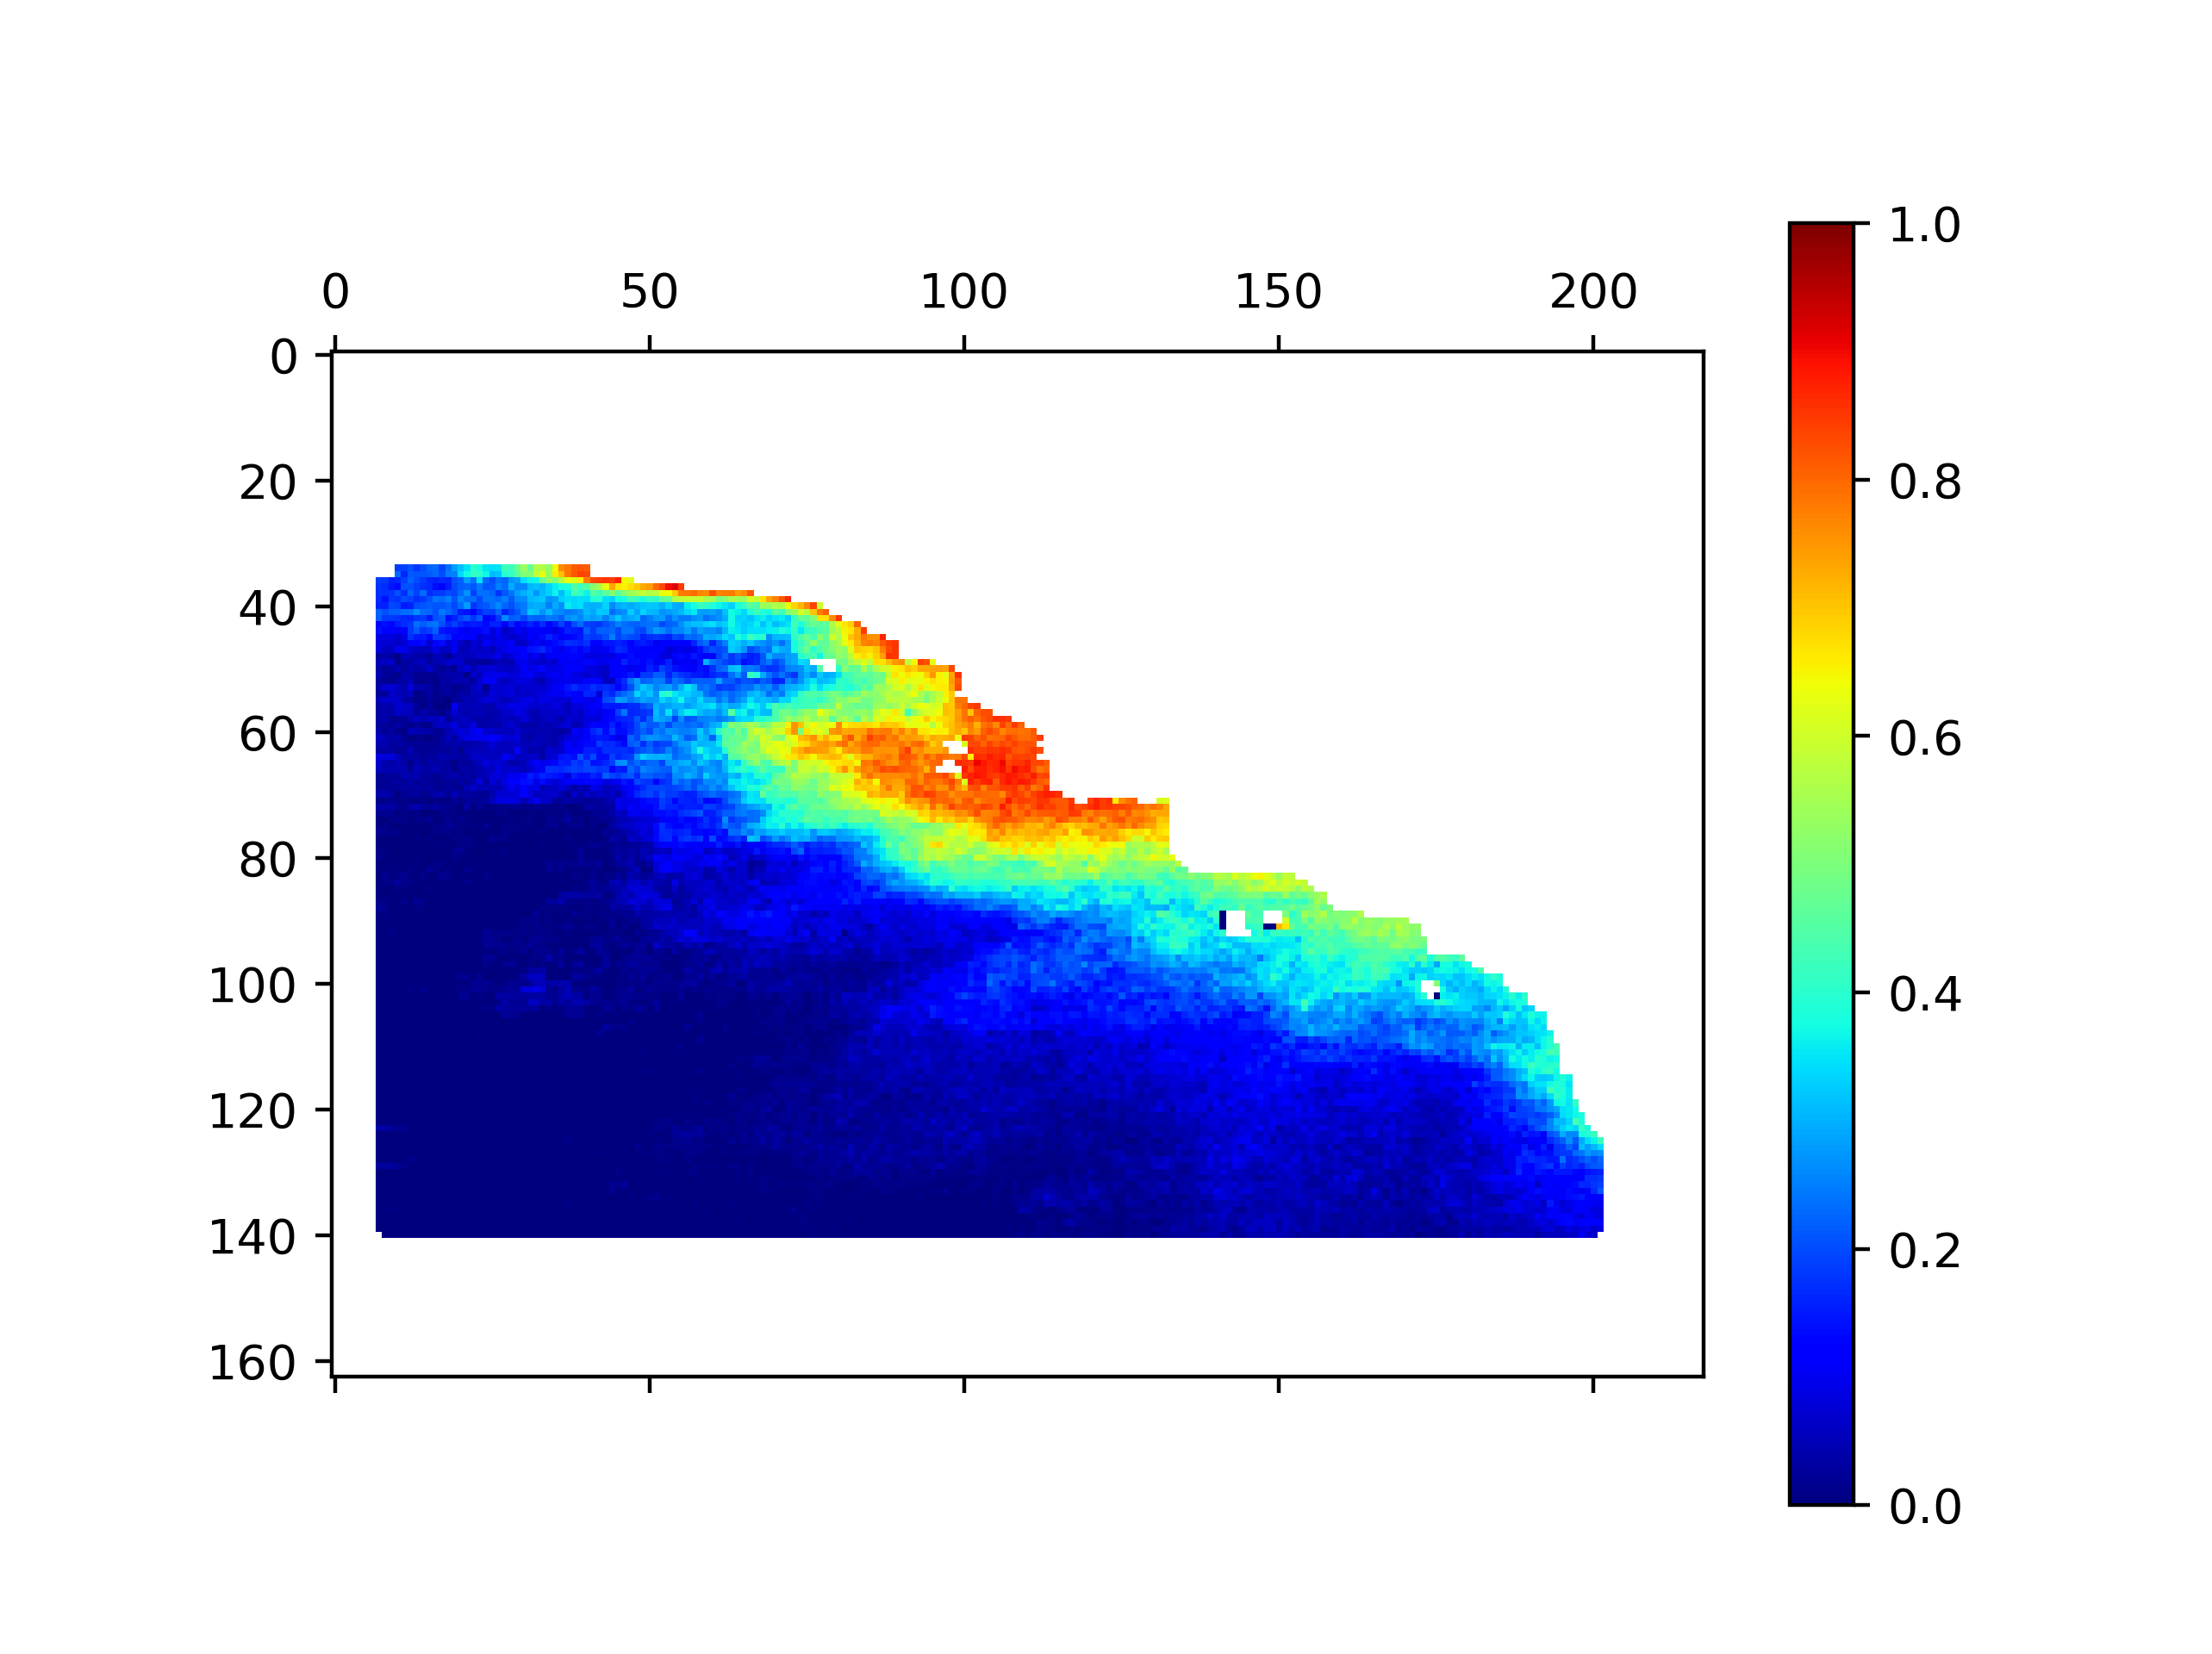
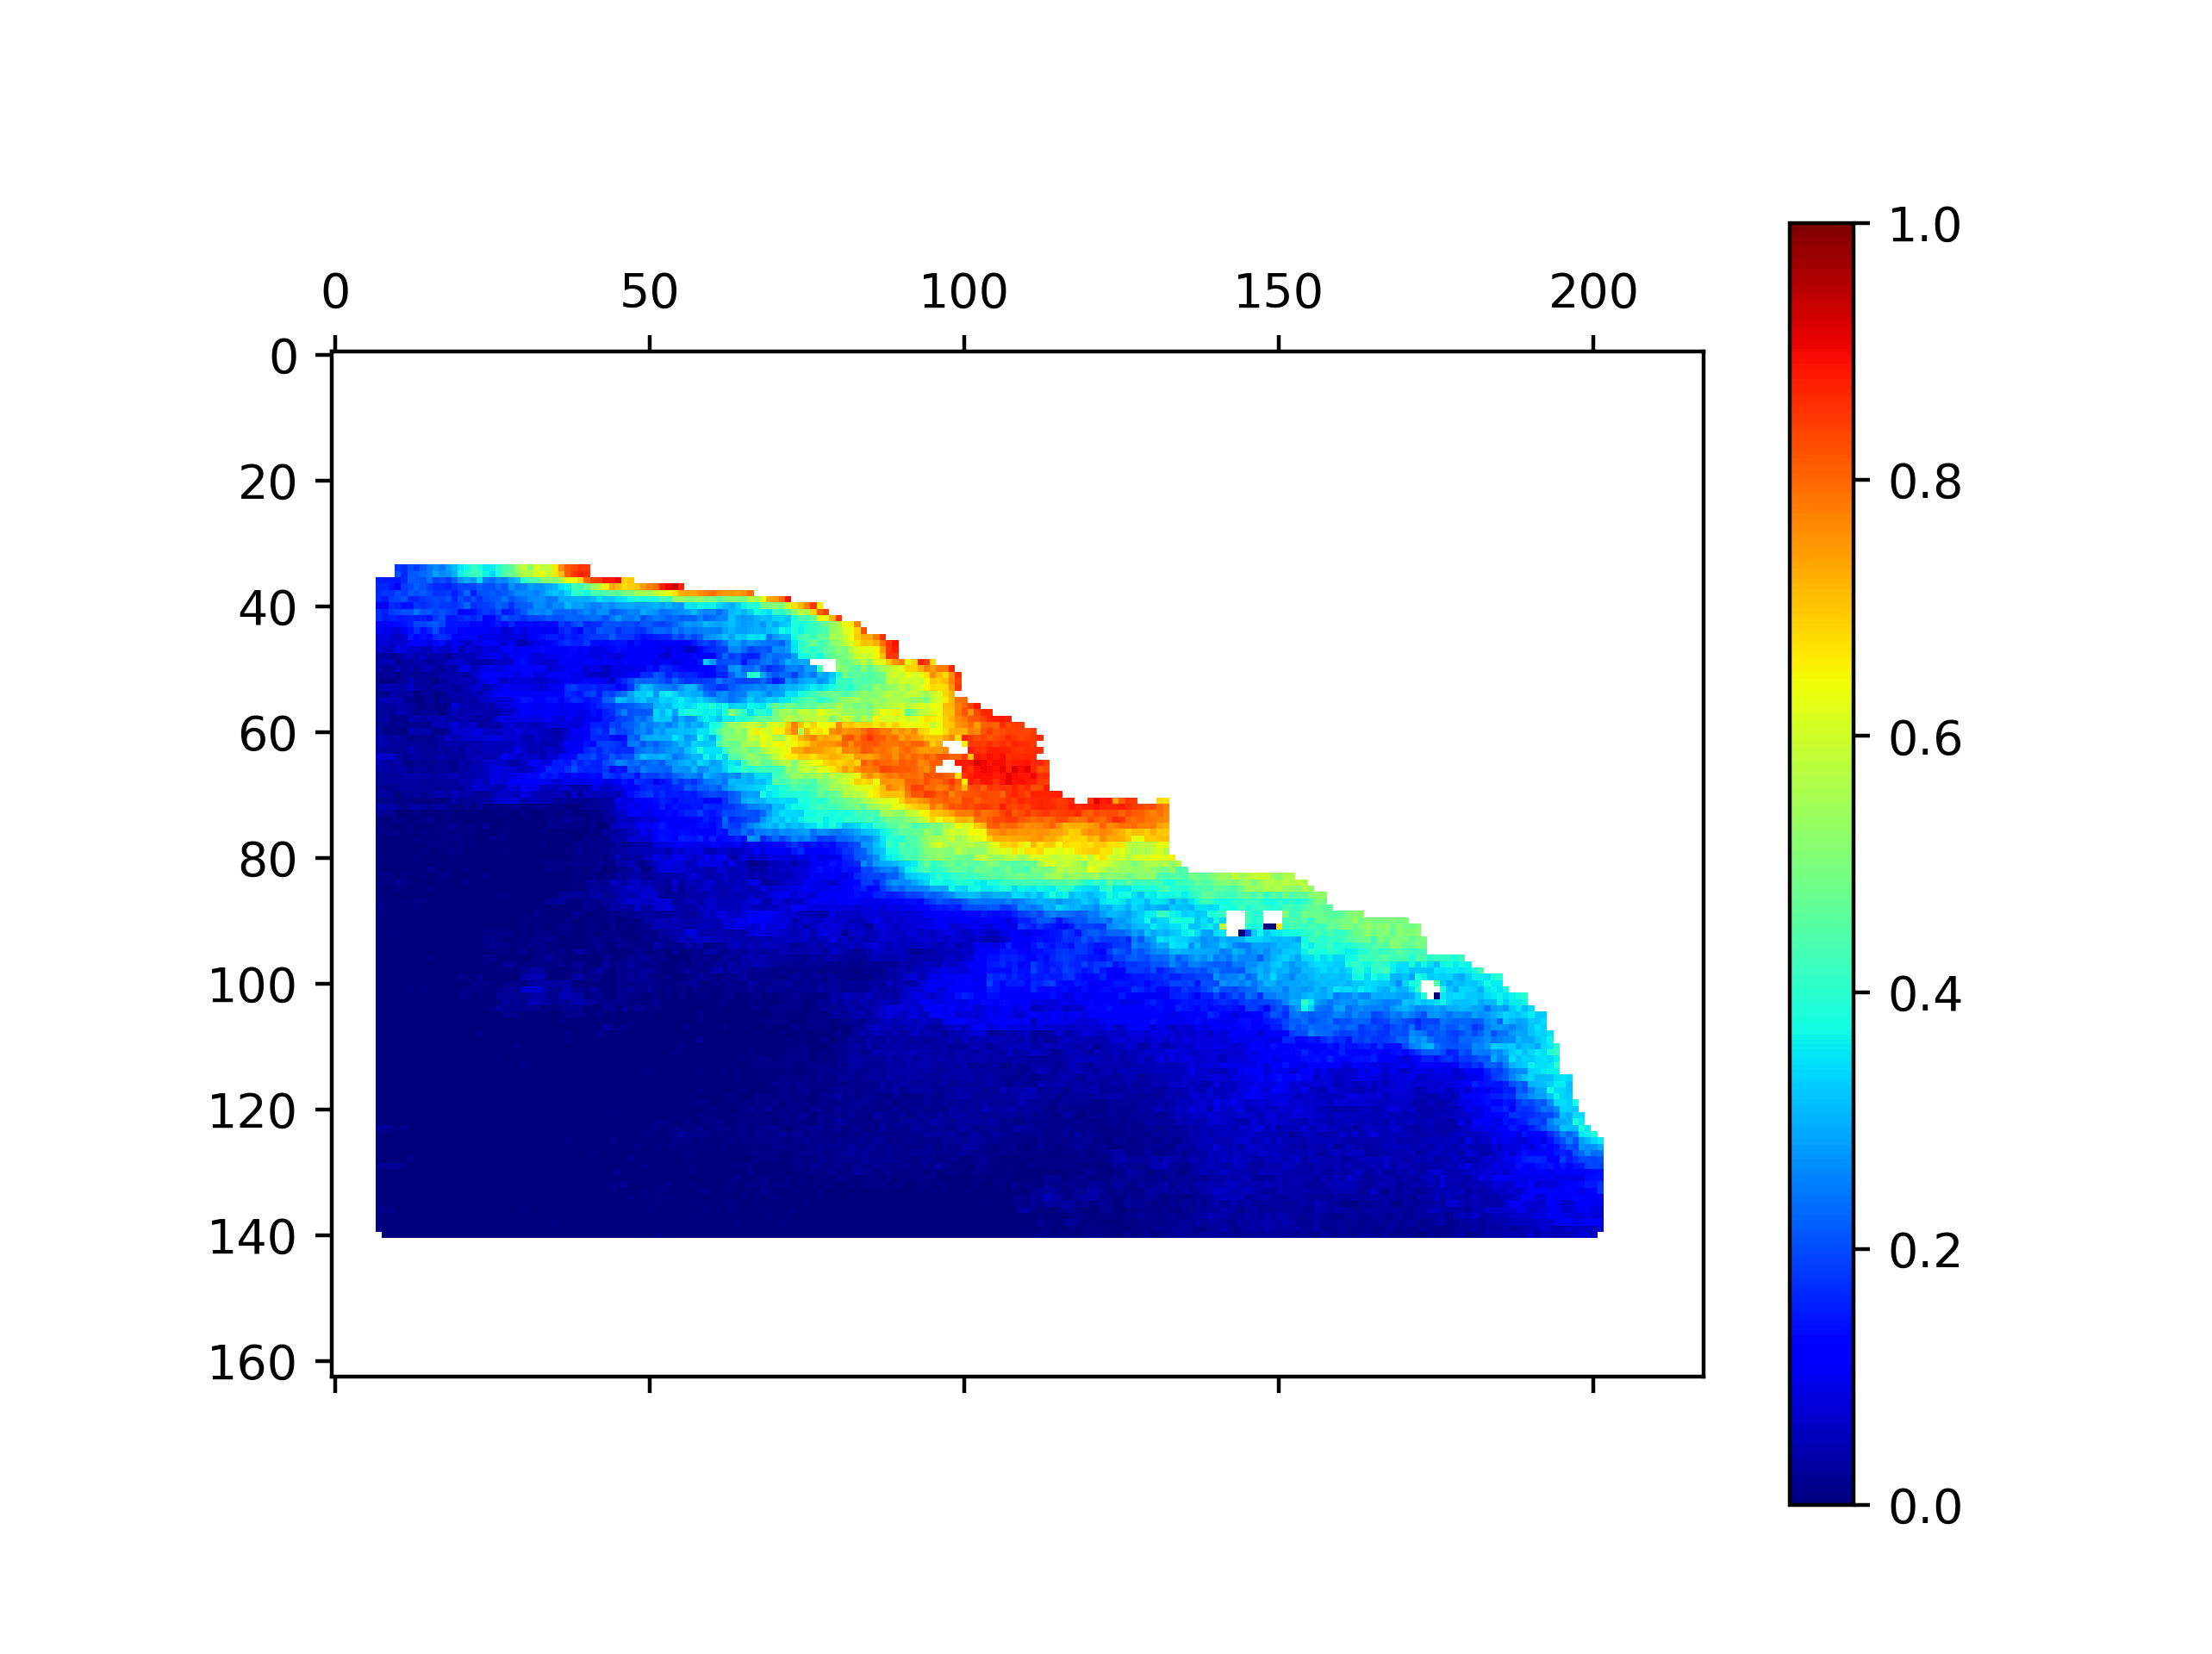
Saving forked work to a branch

Changed region(s): [[0.1558, 0.3438, 0.748, 0.7188], [0.1558, 0.4062, 0.187, 0.4375]]

diff --git a/src/sit_fuse/pipelines/habs/hab_compare_charm.py b/src/sit_fuse/pipelines/habs/hab_compare_charm.py
@@ -24,15 +24,15 @@ from pyresample.utils.rasterio import get_area_def_from_raster
 INST_SUBDIRS = {
 "modis" : "AQUA_MODIS",
 "jpss1" : "JPSS1_VIIRS",
-"pace" : "PACE",
-"s3a" : "S3A",
-"s3b" : "S3B",
+"pace" : "PACE_OCI",
+"s3a" : "S3A_OLCI_ERRNT",
+"s3b" : "S3B_OLCI_ERRNT",
 "snpp" : "SNPP_VIIRS"
 }
 
 PRODUCT_RE = {
-"pnd" : "(\\d{8})_DAY.pseudo_nitzschia_delicatissima_bloom.tif",
-"pns" : "(\\d{8})_DAY.pseudo_nitzschia_seriata_bloom.tif",
+"pnd" : "(\\d{8})_DAY.pseudo_nitzschia_delicatissima_bloom.tif$",
+"pns" : "(\\d{8})_DAY.pseudo_nitzschia_seriata_bloom.tif$",
 #"total" : "(\d{8})_DAY\.total_phytoplankton\.tif"
 } 
 
@@ -49,7 +49,7 @@ CHARM_FILES = [
 
 CHARM_AREA_DEF = "Z:\\2026\\Summer\\Southern California Bight HABs\\C-HARM data\\charmForecast0day_LonPM180.tif"
 
-DT_RANGE = [datetime.strptime("20240306", "%Y%m%d"), datetime.strptime("20250401", "%Y%m%d")]
+DT_RANGE = [datetime.strptime("20240306", "%Y%m%d"), datetime.strptime("20250701", "%Y%m%d")]
 
 LON_BOUNDS = [-128, -116.0]
 LAT_BOUNDS = [30, 38.94]
@@ -395,7 +395,11 @@ def run_comparison():
                     total_diffs[total_inds] = total_diffs[total_inds] + 1 #len(diff_inds[0])      
                     print(total_diffs, len(diff_inds[0]))
     print(diff_map.min(), diff_map.mean(),diff_map.max(), diff_map.std())
-    diff_map = diff_map / total_diffs
+ #   diff_map = diff_map / total_diffs
+
+    # Replace 0/0 with NaN automatically without throwing a warning
+    diff_map = np.divide(diff_map, total_diffs, out=np.full_like(diff_map, np.nan), where=total_diffs != 0)
+
     print(np.nanmean(diff_map), np.nanmin(diff_map),np.nanmax(diff_map), np.nanstd(diff_map))
     plt.matshow(diff_map, vmin=0, vmax=1, cmap="jet")  
     plt.colorbar() 
@@ -424,9 +428,6 @@ def run_comparison():
             if sum(hist_by_concentration[prod][n]["count"]) < 1:
                 continue
             print(prod, n, np.average(hist_by_concentration[prod][n]["f1"], weights=hist_by_concentration[prod][n]["count"]))      
-        
-
-
+       
 
 run_comparison()
-